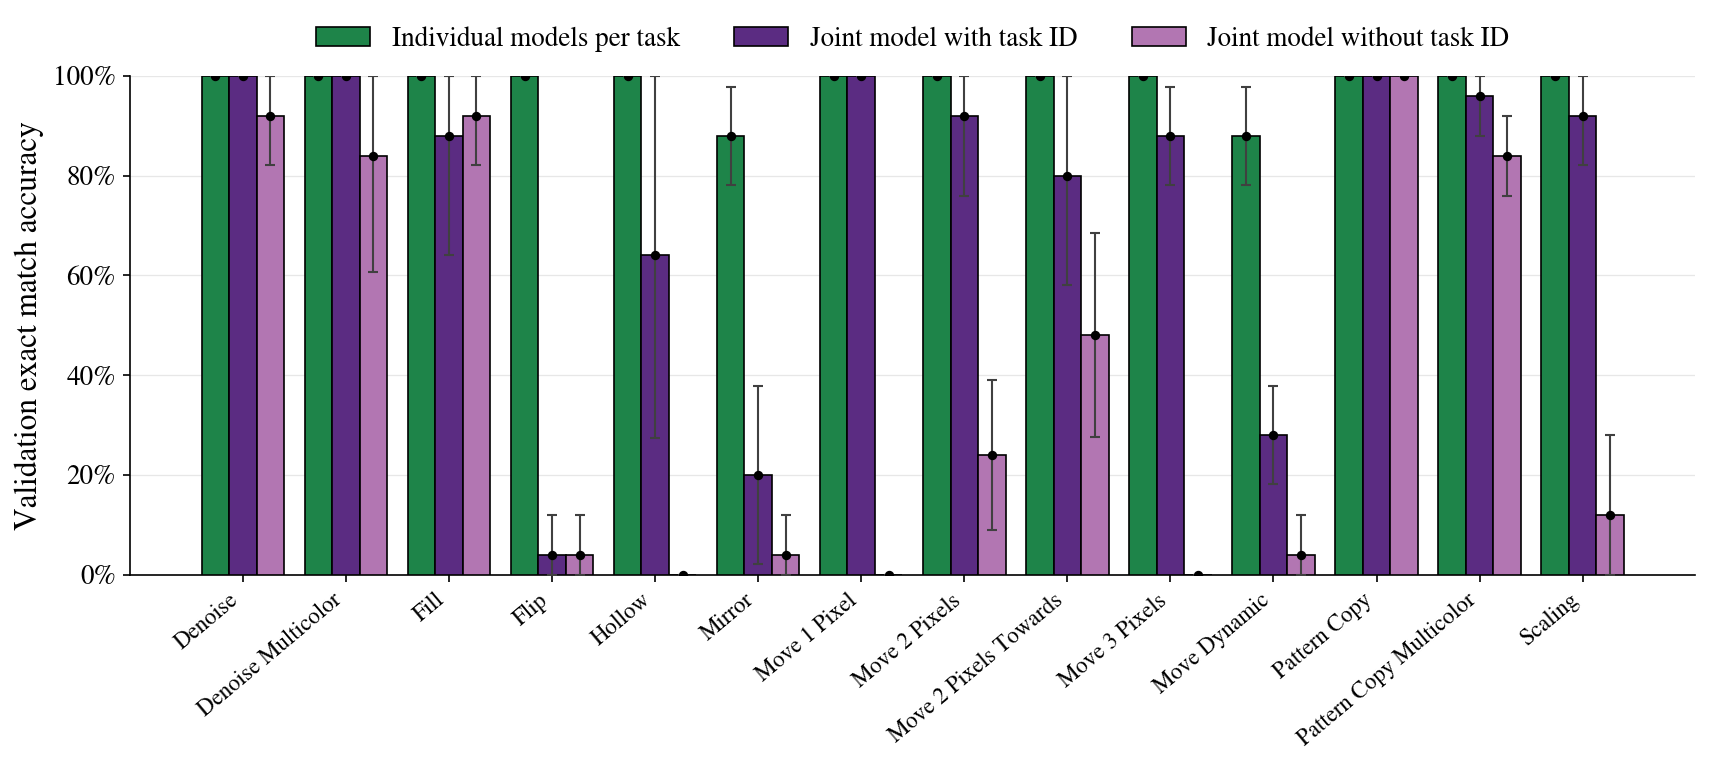
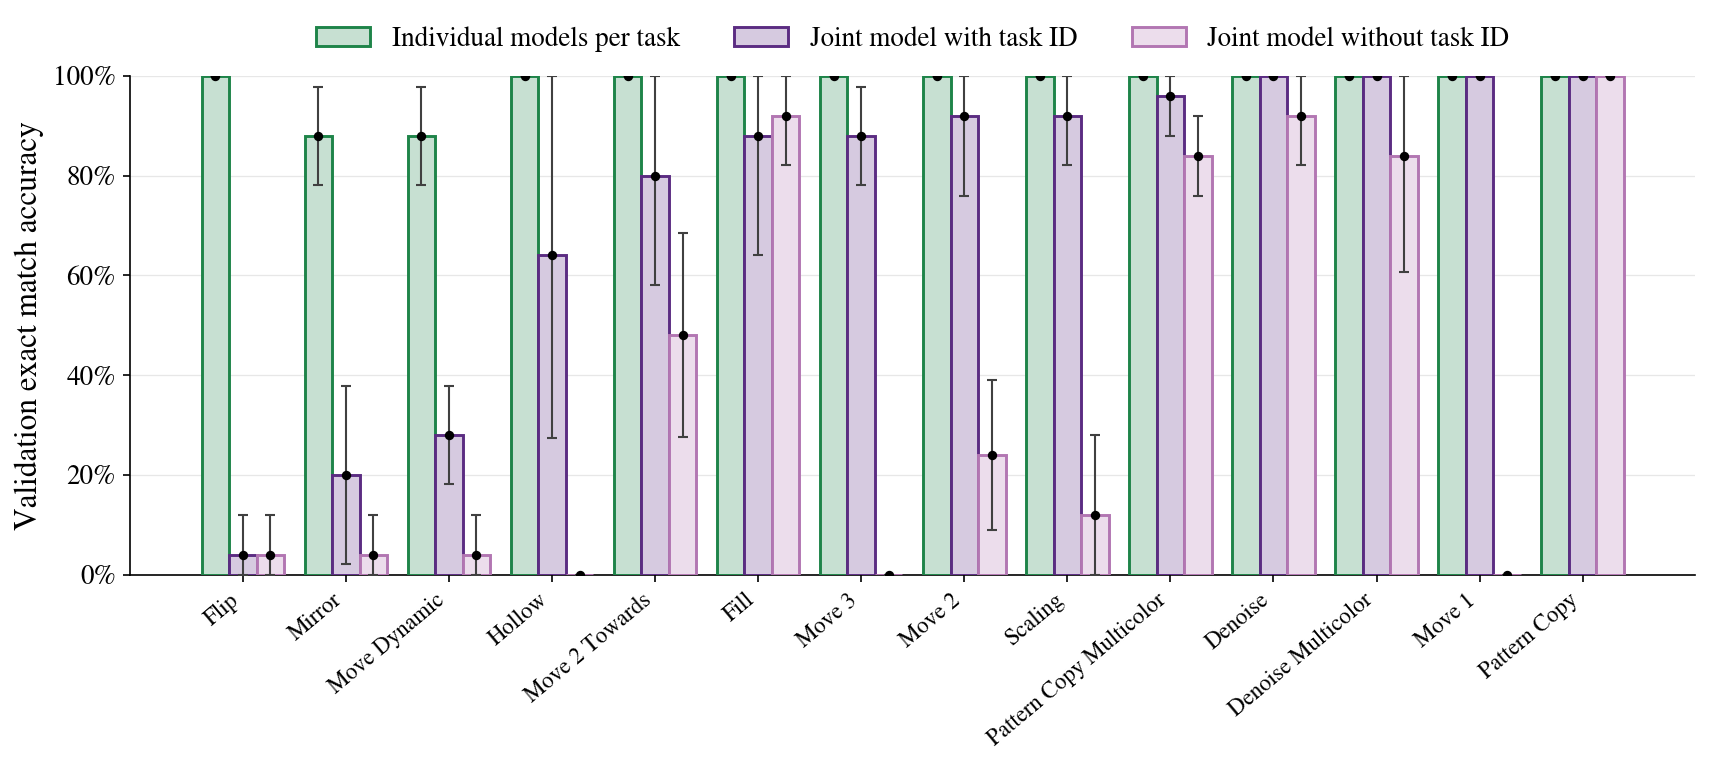
Per-task plot: lighter fills, restore increasing order, drop 'Pixel(s)'
- Bars now light-tinted fill (blend toward white) with the series colour as
  outline instead, softer than the previous solid fill + black edge
- Back to increasing order by 'Joint model with task ID' mean (was
  alphabetical) -- failures surface on the left again
- X labels drop the word 'Pixel(s)' ('Move 1 Pixel' -> 'Move 1', etc.) via
  a local strip_pixel() helper, not touching the shared
  TASK_CATEGORY_DISPLAY_NAMES in visualisation/style.py

diff --git a/configs/experiments/arc1d_v2_multitask/plot_per_task.py b/configs/experiments/arc1d_v2_multitask/plot_per_task.py
@@ -56,6 +56,24 @@ LABELS = {
 CSV_FIELDS = ["condition", "dim", "task", "seed", "val_exact_match"]
 
 
+def lighten(hex_color: str, amount: float = 0.75) -> str:
+    """Blend a hex color toward white -- used for bar fills, with the
+    original color kept as the outline (matplotlib legend patches pick up
+    both automatically)."""
+    r, g, b = (int(hex_color[i : i + 2], 16) for i in (1, 3, 5))
+    r, g, b = (round(c + (255 - c) * amount) for c in (r, g, b))
+    return f"#{r:02x}{g:02x}{b:02x}"
+
+
+FILL_COLORS = {cond: lighten(hex_) for cond, hex_ in COLORS.items()}
+
+
+def strip_pixel(label: str) -> str:
+    """Drop the word 'Pixel(s)' from a task display label -- redundant once
+    it's clear from context this is about sequence positions."""
+    return label.replace(" Pixels", "").replace(" Pixel", "")
+
+
 # ---------------------------------------------------------------------------
 # Extraction (outputs/ -> results_per_task.csv)
 # ---------------------------------------------------------------------------
@@ -182,7 +200,9 @@ def plot(series: dict[str, dict[str, dict]], dim: str, out_path: Path) -> None:
         }
     )
 
-    tasks = sorted(series["td"], key=lambda t: format_task_category(t))
+    # Increasing order on "Joint model with task ID" -- surfaces the
+    # failures on the left, the point of this chart.
+    tasks = sorted(series["td"], key=lambda t: series["td"][t]["mean"])
 
     n_tasks = len(tasks)
     conditions = ("individual", "td", "notd")
@@ -201,8 +221,8 @@ def plot(series: dict[str, dict[str, dict]], dim: str, out_path: Path) -> None:
         lower_err = means - np.clip(means - stds, 0, 1)
         upper_err = np.clip(means + stds, 0, 1) - means
         ax.bar(
-            x + offset, means, width=bar_w, color=COLORS[cond],
-            edgecolor="black", linewidth=0.8, label=LABELS[cond], zorder=3,
+            x + offset, means, width=bar_w, color=FILL_COLORS[cond],
+            edgecolor=COLORS[cond], linewidth=1.4, label=LABELS[cond], zorder=3,
         )
         ax.errorbar(
             x + offset, means, yerr=[lower_err, upper_err], fmt="o",
@@ -212,7 +232,7 @@ def plot(series: dict[str, dict[str, dict]], dim: str, out_path: Path) -> None:
 
     ax.set_xticks(x)
     ax.set_xticklabels(
-        [format_task_category(t) for t in tasks], rotation=40, ha="right",
+        [strip_pixel(format_task_category(t)) for t in tasks], rotation=40, ha="right",
     )
     ax.set_ylabel("Validation exact match accuracy")
     ax.set_ylim(0, 1.0)
